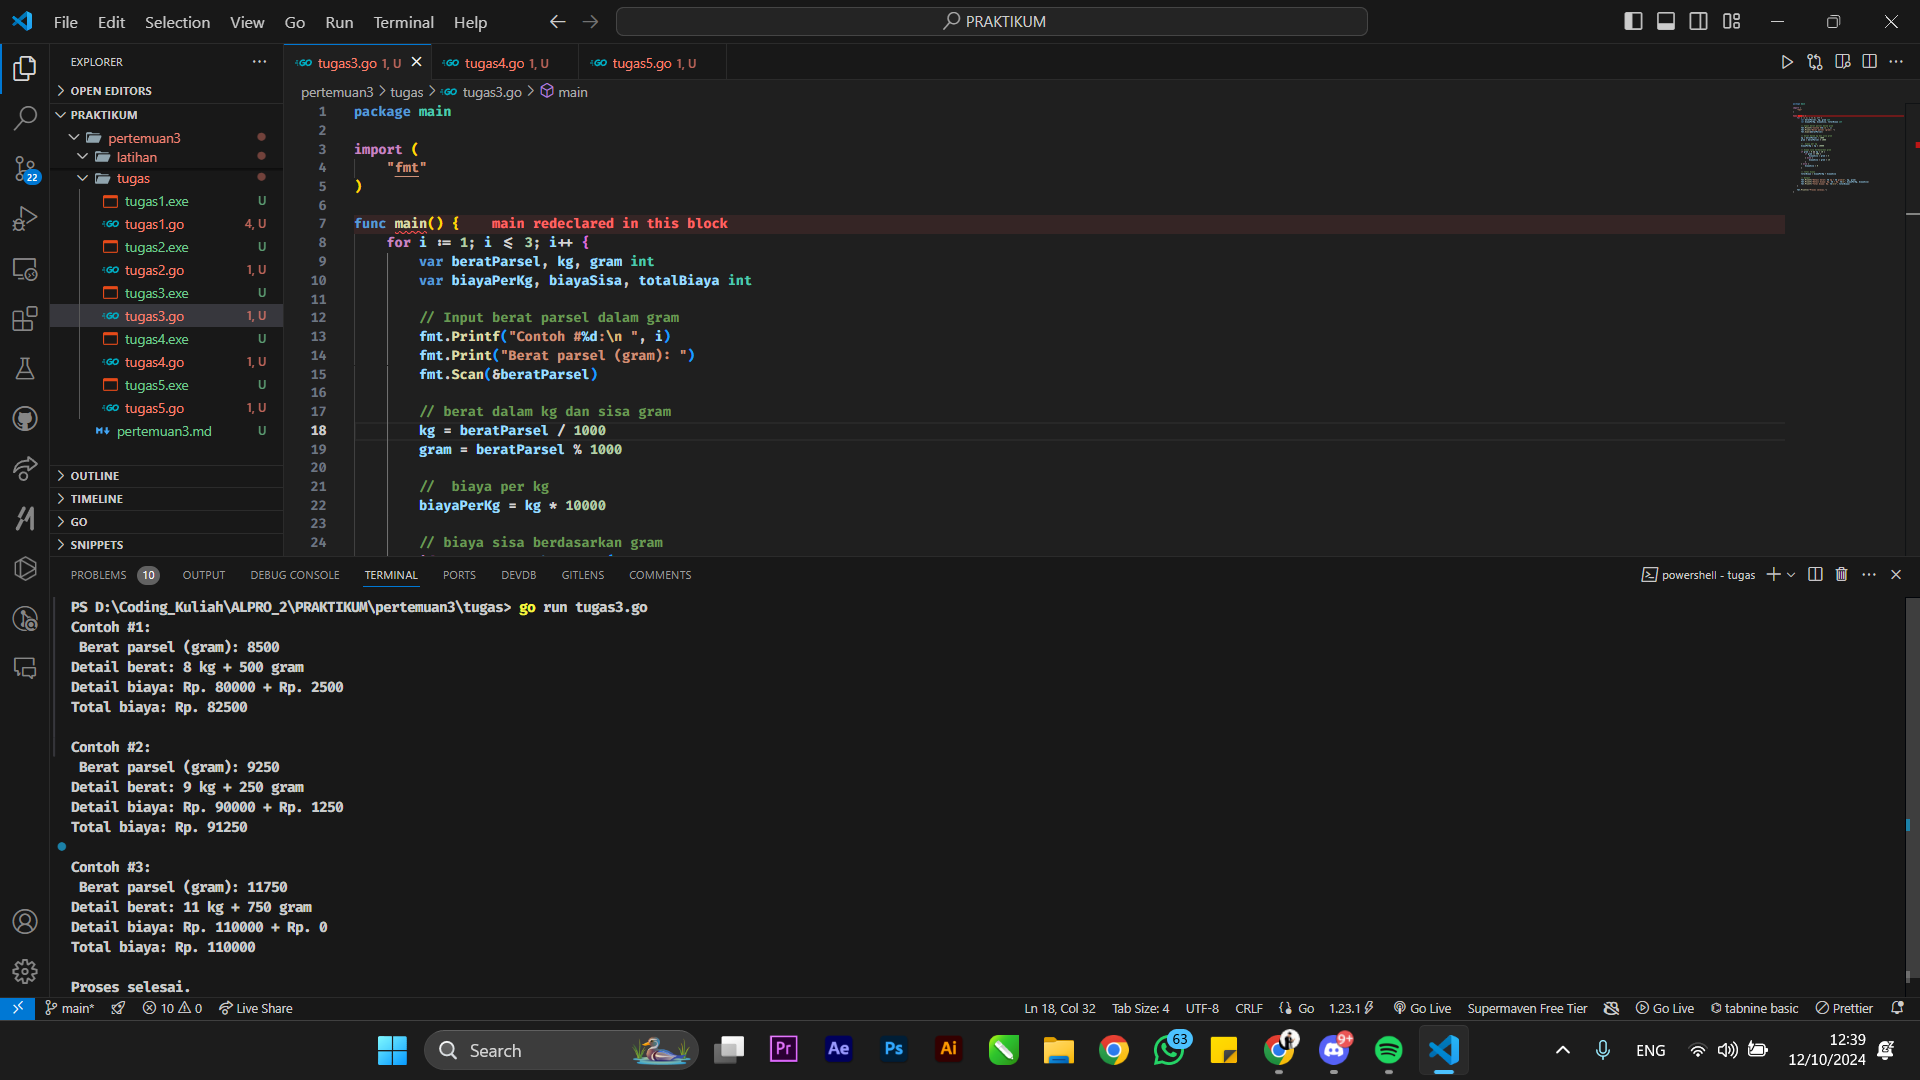
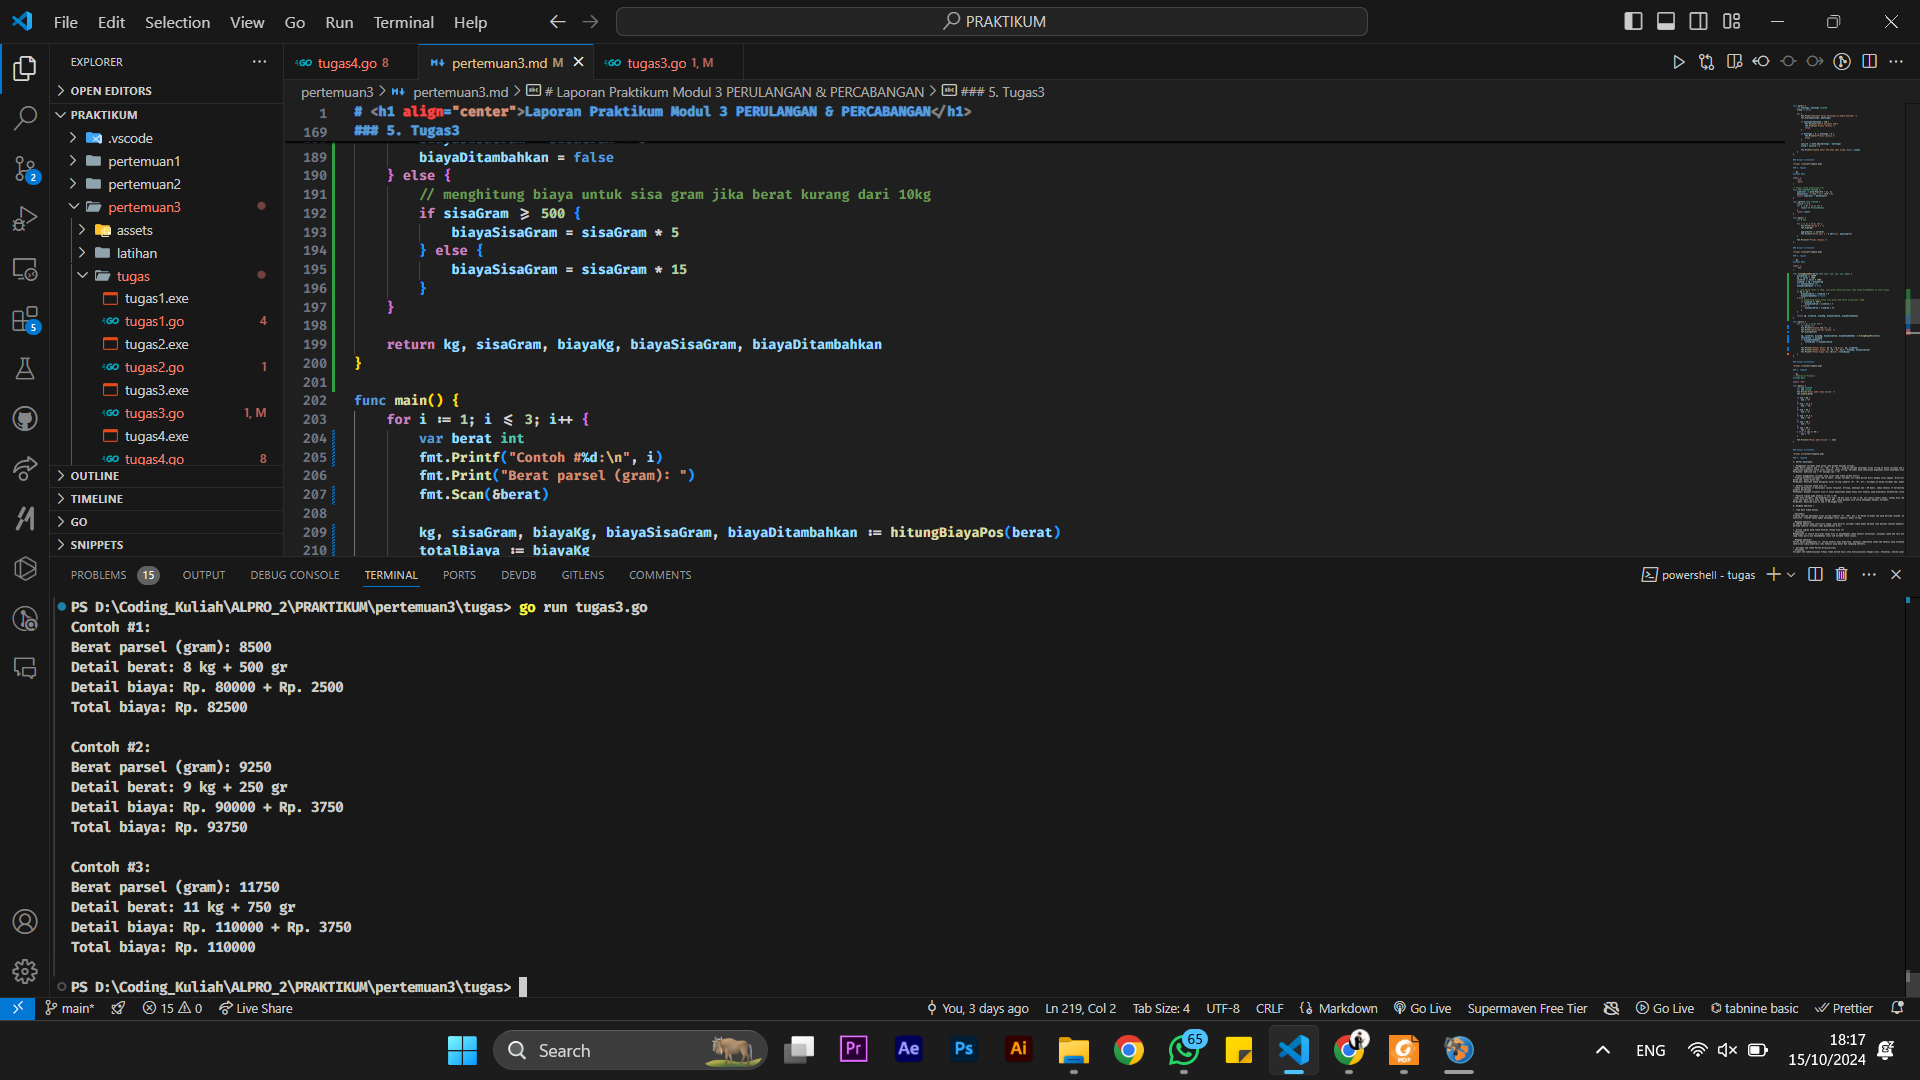
pertemuan3

diff --git a/pertemuan3/tugas/tugas3.go b/pertemuan3/tugas/tugas3.go
@@ -4,42 +4,45 @@ import (
 	"fmt"
 )
 
-func main() {
-	for i := 1; i <= 3; i++ {
-		var beratParsel, kg, gram int
-		var biayaPerKg, biayaSisa, totalBiaya int
+func hitungBiayaPos(berat int) (int, int, int, int, bool) {
+	biayaPerKg := 10000
+	kg := berat / 1000
+	sisaGram := berat % 1000
+	biayaKg := kg * biayaPerKg
+	var biayaSisaGram int
+	biayaDitambahkan := true 
 
-		// Input berat parsel dalam gram
-		fmt.Printf("Contoh #%d:\n ", i)
-		fmt.Print("Berat parsel (gram): ")
-		fmt.Scan(&beratParsel)
-
-		// berat dalam kg dan sisa gram
-		kg = beratParsel / 1000
-		gram = beratParsel % 1000
-
-		//  biaya per kg 
-		biayaPerKg = kg * 10000
-
-		// biaya sisa berdasarkan gram
-		if gram > 0 && kg < 10 {
-			if gram <= 500 {
-				biayaSisa = gram * 5
-			} else {
-				biayaSisa = gram * 15
-			}
+	// jika berat total >= 10kg, sisa gram tetap dihitung, tapi tidak ditambahkan ke total biaya
+	if kg >= 10 {
+		biayaSisaGram = sisaGram * 5 
+		biayaDitambahkan = false    
+	} else {
+		// menghitung biaya untuk sisa gram jika berat kurang dari 10kg
+		if sisaGram >= 500 {
+			biayaSisaGram = sisaGram * 5 
 		} else {
-			biayaSisa = 0 
+			biayaSisaGram = sisaGram * 15 
 		}
-
-		// total biaya
-		totalBiaya = biayaPerKg + biayaSisa
-
-		// Output 
-		fmt.Printf("Detail berat: %d kg + %d gram\n", kg, gram)
-		fmt.Printf("Detail biaya: Rp. %d + Rp. %d\n", biayaPerKg, biayaSisa)
-		fmt.Printf("Total biaya: Rp. %d\n\n", totalBiaya)
 	}
 
-	fmt.Println("Proses selesai.")
+	return kg, sisaGram, biayaKg, biayaSisaGram, biayaDitambahkan
+}
+
+func main() {
+	for i := 1; i <= 3; i++ {
+		var berat int
+		fmt.Printf("Contoh #%d:\n", i)
+		fmt.Print("Berat parsel (gram): ")
+		fmt.Scan(&berat)
+
+		kg, sisaGram, biayaKg, biayaSisaGram, biayaDitambahkan := hitungBiayaPos(berat)
+		totalBiaya := biayaKg
+		if biayaDitambahkan {
+			totalBiaya += biayaSisaGram
+		}
+
+		fmt.Printf("Detail berat: %d kg + %d gr\n", kg, sisaGram)
+		fmt.Printf("Detail biaya: Rp. %d + Rp. %d\n", biayaKg, biayaSisaGram)
+		fmt.Printf("Total biaya: Rp. %d\n\n", totalBiaya)
+	}
 }

diff --git a/pertemuan3/pertemuan3.md b/pertemuan3/pertemuan3.md
@@ -175,44 +175,47 @@ import (
 	"fmt"
 )
 
-func main() {
-	for i := 1; i <= 3; i++ {
-		var beratParsel, kg, gram int
-		var biayaPerKg, biayaSisa, totalBiaya int
+func hitungBiayaPos(berat int) (int, int, int, int, bool) {
+	biayaPerKg := 10000
+	kg := berat / 1000
+	sisaGram := berat % 1000
+	biayaKg := kg * biayaPerKg
+	var biayaSisaGram int
+	biayaDitambahkan := true 
 
-		// Input berat parsel dalam gram
-		fmt.Printf("Contoh #%d:\n ", i)
-		fmt.Print("Berat parsel (gram): ")
-		fmt.Scan(&beratParsel)
-
-		// berat dalam kg dan sisa gram
-		kg = beratParsel / 1000
-		gram = beratParsel % 1000
-
-		//  biaya per kg 
-		biayaPerKg = kg * 10000
-
-		// biaya sisa berdasarkan gram
-		if gram > 0 && kg < 10 {
-			if gram <= 500 {
-				biayaSisa = gram * 5
-			} else {
-				biayaSisa = gram * 15
-			}
+	// jika berat total >= 10kg, sisa gram tetap dihitung, tapi tidak ditambahkan ke total biaya
+	if kg >= 10 {
+		biayaSisaGram = sisaGram * 5 
+		biayaDitambahkan = false    
+	} else {
+		// menghitung biaya untuk sisa gram jika berat kurang dari 10kg
+		if sisaGram >= 500 {
+			biayaSisaGram = sisaGram * 5 
 		} else {
-			biayaSisa = 0 
+			biayaSisaGram = sisaGram * 15 
 		}
-
-		// total biaya
-		totalBiaya = biayaPerKg + biayaSisa
-
-		// Output 
-		fmt.Printf("Detail berat: %d kg + %d gram\n", kg, gram)
-		fmt.Printf("Detail biaya: Rp. %d + Rp. %d\n", biayaPerKg, biayaSisa)
-		fmt.Printf("Total biaya: Rp. %d\n\n", totalBiaya)
 	}
 
-	fmt.Println("Proses selesai.")
+	return kg, sisaGram, biayaKg, biayaSisaGram, biayaDitambahkan
+}
+
+func main() {
+	for i := 1; i <= 3; i++ {
+		var berat int
+		fmt.Printf("Contoh #%d:\n", i)
+		fmt.Print("Berat parsel (gram): ")
+		fmt.Scan(&berat)
+
+		kg, sisaGram, biayaKg, biayaSisaGram, biayaDitambahkan := hitungBiayaPos(berat)
+		totalBiaya := biayaKg
+		if biayaDitambahkan {
+			totalBiaya += biayaSisaGram
+		}
+
+		fmt.Printf("Detail berat: %d kg + %d gr\n", kg, sisaGram)
+		fmt.Printf("Detail biaya: Rp. %d + Rp. %d\n", biayaKg, biayaSisaGram)
+		fmt.Printf("Total biaya: Rp. %d\n\n", totalBiaya)
+	}
 }
 ```
 
